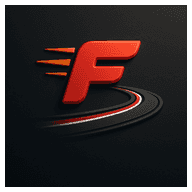
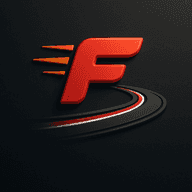
chore: rebuilt assets without padding

Changed region(s): [[0.1562, 0.1875, 0.875, 0.7188], [0.0, 0.0, 1.0, 1.0]]

diff --git a/pwa-assets.config.ts b/pwa-assets.config.ts
@@ -1,9 +1,26 @@
 import {
     defineConfig,
+    Preset,
     minimal2023Preset as preset,
 } from "@vite-pwa/assets-generator/config";
 
+export const minimalPresetNoPadding: Preset = {
+    transparent: {
+        sizes: [64, 192, 512],
+        favicons: [[48, "favicon.ico"]],
+        padding: 0,
+    },
+    maskable: {
+        sizes: [512],
+        padding: 0,
+    },
+    apple: {
+        sizes: [180],
+        padding: 0,
+    },
+};
+
 export default defineConfig({
-    preset,
+    preset: minimalPresetNoPadding,
     images: ["public/logo.png", "public/logo.png"],
 });
